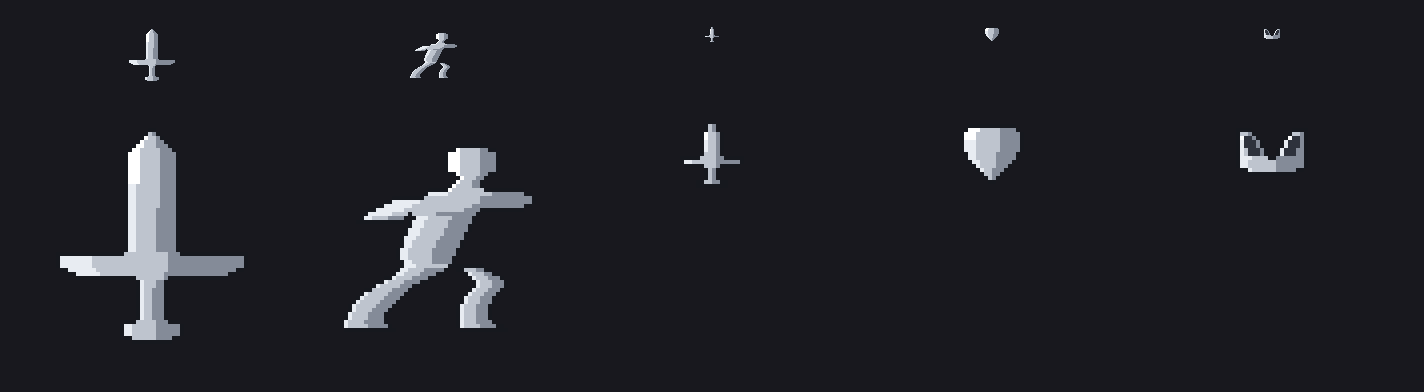
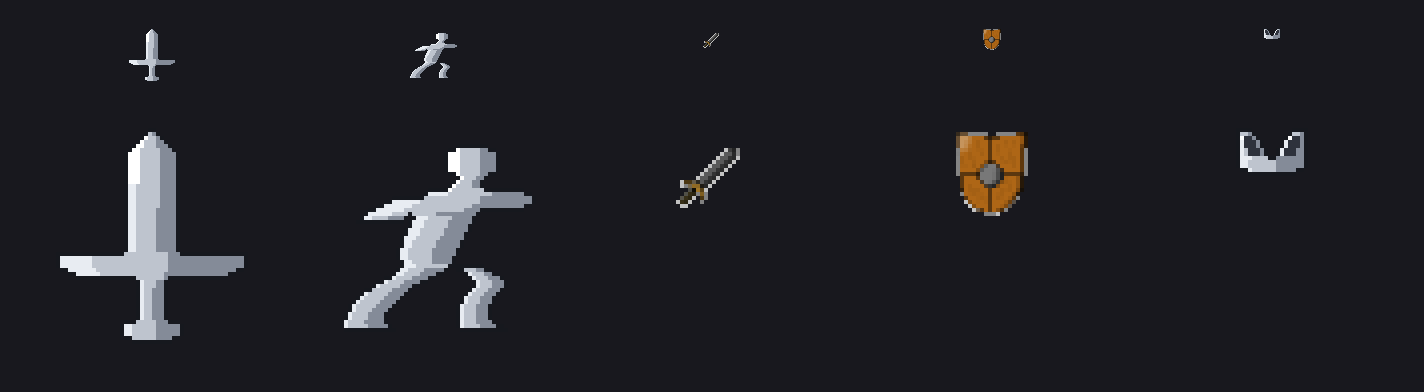
Draw the attack and defend glyphs from Sherman's pixel art
The category corner of an action card showed two generated silhouettes: a 22px
sword for attack and a 22px kite shield for defend, both described as horizontal
spans in internal/systems/glyphs.go and painted from the hueless PaletteWhite.
They are now PNGs drawn by KingSherman1820, and the generator keeps only the
damage sword, the runner and the prepare book.

Generated art was never the goal in itself. The reason for it is that art with
no provenance cannot ship in a game that will be sold, which is what made the
Tyrian set a release blocker. That reason does not apply to a drawing by one of
the two copyright holders, so nothing has to be cleared and nothing is attributed
to a third party. Art from anywhere else still needs a licence, and generating it
is still the cheaper answer.

Two things fell out of the swap.

The art is authored on a 64x64 canvas and the category slot is nothing like that
big, so it is downsampled by a whole factor of two, to 32. It is *averaged* down
rather than sampled, which is the opposite of the rule the generated glyphs
follow: nearest-neighbour at half size keeps every other pixel and deletes a
one-pixel outline wherever it lands on an odd column, and a drawn shield loses
half its rim that way. A painting has interior detail to average; a derived rim
has nothing behind it, which is why a generated glyph wanted smaller is still a
separate drawing authored small.

At 32 the glyphs are ten pixels taller than the ones they replace, so the cost
[…]

diff --git a/internal/systems/glyphs.go b/internal/systems/glyphs.go
@@ -1,10 +1,16 @@
 package systems
 
 import (
+	"bytes"
 	"image"
 	"image/color"
+	"image/draw"
+	_ "image/png"
+	"log"
 
 	"github.com/hajimehoshi/ebiten/v2"
+
+	"github.com/curiousjc/ascend-duel/assets"
 )
 
 // Procedurally generated pixel-art glyphs for the numbers on an action card: what it hits
@@ -13,6 +19,12 @@ import (
 // Drawn in code rather than loaded from a file because generated art has no provenance
 // question at all, which is exactly the problem that makes the Tyrian set a release
 // blocker. That is the reason to keep doing interface art this way.
+//
+// **Two of them are files now, and the reason the rule survives is who drew them.** The
+// attack sword and the defend shield are hand-drawn pixel art by KingSherman1820, one of
+// the two copyright holders — so the provenance question the generator exists to dodge does
+// not arise. See glyphArt below. Art from anywhere else still needs a licence before it can
+// be in a game that will be sold, and generating it remains the cheaper answer.
 //
 // The important part is that this is a *generator*, not a bitmap. A glyph is a filled
 // silhouette described by horizontal spans; the outline is derived from the silhouette by
@@ -252,55 +264,24 @@ var runShape = shape{
 	},
 }
 
-// The three category glyphs, authored at 22 pixels — roughly a third of the others.
+// The category glyphs are small — a third of a damage badge — because they sit above the
+// cost dashes in a column a second full badge would fill.
 //
-// **They are separate drawings, not the big ones shrunk.** Nothing here can be scaled: the
-// rim is derived one pixel thick, so a third-size copy of a 64px shape is a third-size
-// copy of its outline and the interior disappears. At 22 pixels the detail budget is
-// almost nothing — a 5px feature is two pixels of rim around three of fill — so each of
-// these is a silhouette that has to work as pure outline, with at most one accent stroke.
+// **A generated one is a separate drawing, not a big one shrunk.** Nothing generated here
+// can be scaled: the rim is derived one pixel thick, so a third-size copy of a 64px shape
+// is a third-size copy of its outline and the interior disappears. At 22 pixels the detail
+// budget is almost nothing — a 5px feature is two pixels of rim around three of fill — so
+// the shape has to work as pure outline, with at most one accent stroke, and is told apart
+// by *proportion* before any detail is legible.
 //
-// The three are told apart by *proportion* before any detail is legible, which is the only
-// thing that reliably survives at this size: the sword is narrow and vertical, the shield
-// is wide at the top and comes to a point, the book is wider than it is tall.
+// Only the book is still generated. The sword and the shield are drawn art now and are
+// downsampled rather than authored small, which is a thing a *painting* survives and a
+// derived-rim silhouette does not — see glyphArt.
 const categoryGlyphSize = 22
 
-// A sword, upright: a six-pixel blade, a crossguard nearly three times its width, a
-// four-pixel grip and a wider pommel. The crossguard carries the whole read — without a
-// bar that wide this is a nail.
-var smallSwordShape = shape{
-	size: categoryGlyphSize,
-	fill: map[int][]span{
-		2: {{10, 11}},
-		3: {{9, 12}},
-		4: {{9, 12}},
-		5: {{8, 13}}, 6: {{8, 13}}, 7: {{8, 13}},
-		8: {{8, 13}}, 9: {{8, 13}}, 10: {{8, 13}},
-		11: {{3, 18}}, 12: {{3, 18}}, 13: {{4, 17}},
-		14: {{9, 12}}, 15: {{9, 12}}, 16: {{9, 12}},
-		17: {{7, 14}}, 18: {{7, 14}},
-	},
-}
-
-// A kite shield: a flat wide shoulder, straight sides, then a taper to a point. Left
-// deliberately undecorated — the chevron the 64px version carried is four pixels of
-// accent at this size and reads as damage rather than as a device.
-var smallShieldShape = shape{
-	size: categoryGlyphSize,
-	fill: map[int][]span{
-		3: {{5, 16}},
-		4: {{4, 17}},
-		5: {{3, 18}}, 6: {{3, 18}}, 7: {{3, 18}},
-		8: {{3, 18}}, 9: {{3, 18}},
-		10: {{4, 17}}, 11: {{4, 17}},
-		12: {{5, 16}},
-		13: {{6, 15}},
-		14: {{7, 14}},
-		15: {{8, 13}},
-		16: {{9, 12}},
-		17: {{10, 11}},
-	},
-}
+// The generated 22px sword and shield that used to sit here went when Sherman's art
+// arrived — see glyphArt below. Both are one `git show` away if the drawn versions are
+// ever wanted back.
 
 // An open book, seen end-on: **the two covers form a V**, splayed wide at the top and
 // meeting at the spine, with the page block filling the body below.
@@ -344,9 +325,45 @@ var smallBookShape = shape{
 var glyphShapes = map[GlyphKind]shape{
 	GlyphDamage:       swordShape,
 	GlyphActionPoints: runShape,
-	GlyphAttack:       smallSwordShape,
-	GlyphDefend:       smallShieldShape,
 	GlyphPrepare:      smallBookShape,
+}
+
+// glyphArt is the hand-drawn half of the set: a kind whose picture is a PNG rather than a
+// silhouette in code. A kind listed here has no entry in glyphShapes and never reaches the
+// generator.
+//
+// **The palette is ignored for these.** A generated glyph is painted from a five-value
+// Palette at draw time; a drawing already carries its own colours and is blitted as
+// authored. That is a deliberate spend of the colour channel the hueless palette was
+// holding — the card's border also carries the element, so an attack card now says
+// something in colour twice. It was the owner's call on 2026-08-10.
+//
+// **Authored at 64 and drawn at 32.** The art is a 64x64 canvas and the category slot is
+// nothing like that big, so it is downsampled by a whole factor of two. Halving is the one
+// resize hand-drawn art tolerates: a 2x2 block averages to one pixel and a black outline
+// survives as a darker pixel rather than vanishing. The generated glyphs cannot do this —
+// their rim is derived one pixel thick and averaging it away is exactly the failure the
+// "author it small instead" rule exists for.
+type glyphArtwork struct {
+	// key is the assets.LoadImageData key, not a path. Same indirection as everywhere
+	// else: a file can be refiled without touching this.
+	key string
+	// size is the glyph's size on screen. It must divide artCanvas exactly.
+	size int
+}
+
+// artCanvas is the size the drawn glyphs are authored at.
+const artCanvas = 64
+
+// categoryArtSize is the drawn category glyphs' size on a card: half of what they were
+// authored at, which is what the owner asked to look at first. Change this and the card's
+// left column moves — internal/cards/style.go measures with SizeOf and
+// TestLeftColumnDoesNotCollide fails rather than letting the stack overlap.
+const categoryArtSize = artCanvas / 2
+
+var glyphArt = map[GlyphKind]glyphArtwork{
+	GlyphAttack: {key: "shermansword_png", size: categoryArtSize},
+	GlyphDefend: {key: "shermanshield_png", size: categoryArtSize},
 }
 
 // glyphCache holds rendered images, keyed by what was asked for. Building one walks a
@@ -376,6 +393,10 @@ func Glyph(kind GlyphKind, name PaletteName) *ebiten.Image {
 // contact-sheet tool in cmd/glyphsheet has no window. Keeping the renderer pure is what
 // lets the art be inspected without launching the game.
 func RenderGlyph(kind GlyphKind, name PaletteName) *image.RGBA {
+	if art, ok := glyphArt[kind]; ok {
+		return renderArt(kind, art)
+	}
+
 	pal := PaletteOf(name)
 	shp := glyphShapes[kind]
 	size := shp.canvas()
@@ -438,13 +459,98 @@ func RenderGlyph(kind GlyphKind, name PaletteName) *image.RGBA {
 	return img
 }
 
-// SizeOf is the canvas a glyph is drawn on, which is not the same for every glyph.
+// artCache holds decoded and downsampled artwork. Decoding a PNG and averaging it down is
+// far more work than walking a silhouette, and neither depends on anything that changes.
+var artCache = map[GlyphKind]*image.RGBA{}
+
+// renderArt decodes a drawn glyph and halves it to the size the card wants.
 //
-// The damage sword and the runner are 64. The three category glyphs are 22, because they
-// sit above the cost dashes in a column that a second 64-pixel badge would fill. Callers
-// must measure with this rather than assuming GlyphSize, or a small glyph will be given a
-// large hole to sit in.
+// A decode failure is fatal rather than silent. The bytes are embedded in the binary, so
+// there is no runtime condition under which this can fail on one machine and not another —
+// it means the file is not a PNG, which is a build problem to fix and not a case to fall
+// back from with a blank corner on every attack card.
+func renderArt(kind GlyphKind, art glyphArtwork) *image.RGBA {
+	if img, ok := artCache[kind]; ok {
+		return img
+	}
+
+	data := assets.LoadImageData()[art.key]
+	if len(data) == 0 {
+		log.Fatalf("glyph art %q is not in assets.LoadImageData", art.key)
+	}
+	src, _, err := image.Decode(bytes.NewReader(data))
+	if err != nil {
+		log.Fatalf("failed to decode glyph art %q: %v", art.key, err)
+	}
+
+	// Into an RGBA of its own first: PNGs with alpha decode to NRGBA, and the averaging
+	// below is only correct on premultiplied values, which image.RGBA is by definition.
+	b := src.Bounds()
+	full := image.NewRGBA(image.Rect(0, 0, b.Dx(), b.Dy()))
+	draw.Draw(full, full.Bounds(), src, b.Min, draw.Src)
+
+	if b.Dx() != artCanvas || b.Dy() != artCanvas {
+		log.Fatalf("glyph art %q is %dx%d, want %dx%d", art.key, b.Dx(), b.Dy(), artCanvas, artCanvas)
+	}
+	if art.size <= 0 || artCanvas%art.size != 0 {
+		log.Fatalf("glyph art %q asks for %dpx, which does not divide the %dpx canvas",
+			art.key, art.size, artCanvas)
+	}
+
+	img := downsample(full, artCanvas/art.size)
+	artCache[kind] = img
+	return img
+}
+
+// downsample averages each factor x factor block down to one pixel.
+//
+// **Averaged, not sampled.** Nearest-neighbour at half size keeps every other pixel and
+// throws the rest away, which deletes a one-pixel outline wherever it lands on an odd
+// column — a drawn shield loses half its rim and reads as torn. Averaging keeps it as a
+// darker pixel. This is the opposite of the rule for generated glyphs, and the difference
+// is that a painting has interior detail to average whereas a derived rim has nothing
+// behind it.
+//
+// image.RGBA is alpha-premultiplied, so the four channels average independently and a
+// transparent neighbour correctly darkens nothing.
+func downsample(src *image.RGBA, factor int) *image.RGBA {
+	if factor <= 1 {
+		return src
+	}
+	b := src.Bounds()
+	out := image.NewRGBA(image.Rect(0, 0, b.Dx()/factor, b.Dy()/factor))
+	n := factor * factor
+
+	for y := 0; y < out.Bounds().Dy(); y++ {
+		for x := 0; x < out.Bounds().Dx(); x++ {
+			var r, g, bl, a int
+			for dy := 0; dy < factor; dy++ {
+				for dx := 0; dx < factor; dx++ {
+					c := src.RGBAAt(b.Min.X+x*factor+dx, b.Min.Y+y*factor+dy)
+					r += int(c.R)
+					g += int(c.G)
+					bl += int(c.B)
+					a += int(c.A)
+				}
+			}
+			out.SetRGBA(x, y, color.RGBA{
+				R: uint8(r / n), G: uint8(g / n), B: uint8(bl / n), A: uint8(a / n),
+			})
+		}
+	}
+	return out
+}
+
+// SizeOf is the size a glyph is drawn at, which is not the same for every glyph.
+//
+// The damage sword and the runner are 64. The category glyphs are much smaller, because
+// they sit above the cost dashes in a column that a second 64-pixel badge would fill — 22
+// for the generated book, 32 for the drawn sword and shield. Callers must measure with this
+// rather than assuming GlyphSize, or a small glyph will be given a large hole to sit in.
 func SizeOf(kind GlyphKind) int {
+	if art, ok := glyphArt[kind]; ok {
+		return art.size
+	}
 	return glyphShapes[kind].canvas()
 }
 

diff --git a/internal/cards/style.go b/internal/cards/style.go
@@ -34,9 +34,10 @@ type Style struct {
 	// The category glyph, above the cost stack. It replaced the category *word*: a
 	// picture where a line of text used to be.
 	//
-	// **It is 22 pixels, not 64** — systems.SizeOf is the authority and the layout must
-	// ask rather than assume. A third-size glyph is a separate drawing authored small,
-	// because nothing here can be scaled; see systems/glyphs.go.
+	// **It is not 64, and it is not one number either** — the drawn sword and shield are
+	// 32 and the generated book is 22. systems.SizeOf is the authority and the layout must
+	// ask per glyph rather than assume; see systems/glyphs.go for why the two halves of
+	// the set are sized differently.
 	CategoryGlyphTop int
 
 	// The cost dashes, hamburger-style, below the category glyph.
@@ -72,11 +73,16 @@ type Style struct {
 // The face reads: the name centred across the top, and a left column starting in the
 // corner beside it — category glyph, cost dashes, damage badge.
 //
-//	 12  category glyph     12..34    (22px, top-left corner)
+//	 12  category glyph     12..44    (32px at the largest, top-left corner)
 //	 14  name               centred
-//	 42  cost dashes        42..89    (four at 8 on a 5 gap)
+//	 48  cost dashes        48..95    (four at 8 on a 5 gap)
 //	100  damage badge      100..164
 //	258  inside of the bottom border
+//
+// **The dashes moved down when the drawn glyphs arrived**, from 42 to 48: Sherman's sword
+// and shield are 32 pixels where the generated ones were 22, and the ten pixels had to come
+// from somewhere. The damage badge did not move — four dashes now end at y=95 against its
+// top at y=100, which is five pixels of slack rather than the fifteen there used to be.
 //
 // **The name is centred and the glyph is in the corner beside it, not under it.** Those
 // two go together: a left-aligned name would sit directly on top of the glyph now that
@@ -107,7 +113,7 @@ var Hand = Style{
 	CategoryGlyphTop: 12,
 
 	DashLeft:   12,
-	DashTop:    42,
+	DashTop:    48,
 	DashWidth:  13,
 	DashHeight: 8,
 	DashGap:    5,
@@ -154,8 +160,12 @@ var Mini = Style{
 	GlyphInset:       8,
 	CategoryGlyphTop: 36,
 
+	// 72 rather than 66, for the same reason Hand's moved: the drawn glyphs are 32 pixels
+	// and end at y=68. A mini card carries a 32px glyph without shrinking it, because
+	// GlyphScale is whole-number only and 1 is the floor — the overlay's cards are half
+	// size and their glyphs are not.
 	DashLeft:   8,
-	DashTop:    66,
+	DashTop:    72,
 	DashWidth:  7,
 	DashHeight: 4,
 	DashGap:    3,

diff --git a/assets/embed.go b/assets/embed.go
@@ -30,6 +30,25 @@ var title_png []byte
 //go:embed game/title-easter-egg.png
 var titleEaster_png []byte
 
+// GLYPH ART
+//
+// The attack and defend category glyphs on an action card. These two are the exception to
+// "interface art is generated": everything else in internal/systems/glyphs.go is a
+// silhouette described in code, and these are hand-drawn pixel art.
+//
+// **The provenance question the generated glyphs exist to avoid does not apply here.**
+// Drawn by KingSherman1820, one of the two copyright holders, for this game — so there is
+// nothing to clear and nothing to attribute to a third party.
+//
+// Authored on a 64x64 canvas and drawn on the card at half that; see glyphArt in
+// internal/systems/glyphs.go for why the halving happens at render time rather than here.
+//
+//go:embed game/sherman-sword.png
+var shermansword_png []byte
+
+//go:embed game/sherman-shield.png
+var shermanshield_png []byte
+
 // CREATURES
 //
 // One west-facing idle frame per enemy, cut out of the PVGames creature sheets in
@@ -154,6 +173,12 @@ func LoadImageData() map[string][]byte {
 	images["firering_png"] = firering_png
 	images["frozenring_png"] = frozenring_png
 	images["thunderring_png"] = thunderring_png
+
+	// The glyph art. internal/systems takes the bytes rather than an *ebiten.Image for the
+	// same reason the ring art does: RenderGlyph draws into a plain Go image so the contact
+	// sheets can be built with no window.
+	images["shermansword_png"] = shermansword_png
+	images["shermanshield_png"] = shermanshield_png
 
 	return images
 }

diff --git a/internal/cards/cards_test.go b/internal/cards/cards_test.go
@@ -557,22 +557,23 @@ func abs(n int) int {
 	return n
 }
 
-func TestCategoryGlyphsAreAboutAThirdSize(t *testing.T) {
-	// **Authored small, not scaled small.** The point of asserting a range rather than an
-	// exact number is that the size is a design choice, but the *relationship* to the
-	// damage sword is the thing that must not quietly drift back — if someone reuses the
-	// 64px shapes here the card layout silently overlaps again.
+func TestCategoryGlyphsAreSmallerThanTheDamageBadge(t *testing.T) {
+	// **The relationship is the invariant, not the number.** How big a category glyph is
+	// stays a design choice — 22 for the generated book, 32 for the drawn sword and shield
+	// — but a category glyph that reaches the damage badge's size means someone put a 64px
+	// shape in the corner slot, and the left column silently overlaps again.
+	//
+	// The floor matters as much as the ceiling: below about 16 pixels neither a painting
+	// nor a derived rim has anything left to read.
 	for _, c := range Categories() {
 		kind, ok := c.glyph()
 		if !ok {
 			t.Fatalf("%s has no glyph", c)
 		}
 		got := systems.SizeOf(kind)
-		if got < 16 || got > 30 {
-			t.Errorf("%s glyph is %dpx, want roughly a third of %d", c, got, systems.GlyphSize)
-		}
-		if got == systems.GlyphSize {
-			t.Errorf("%s glyph is full size — it is using a 64px shape, not a small one", c)
+		if got < 16 || got > systems.GlyphSize/2 {
+			t.Errorf("%s glyph is %dpx, want between 16 and half of %d",
+				c, got, systems.GlyphSize)
 		}
 	}
 
